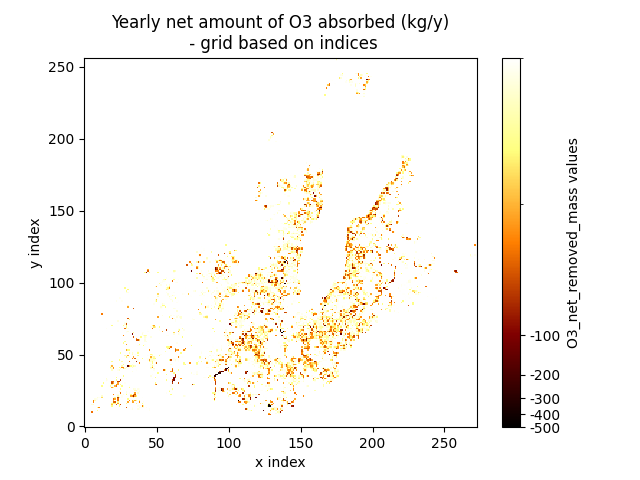
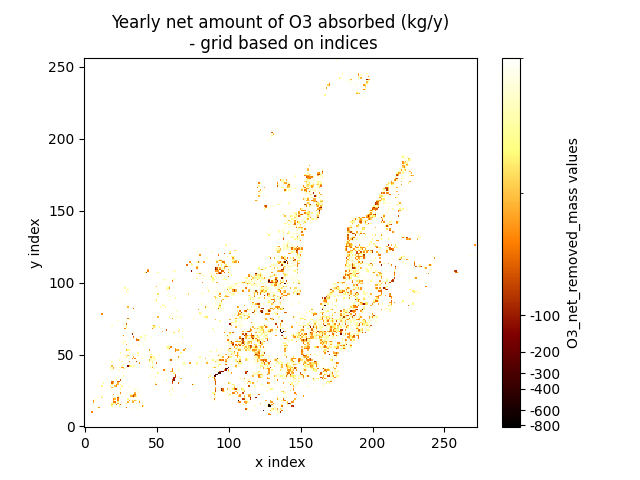
New Graphs for 120000 trees

Changed region(s): [[0.8125, 0.625, 0.875, 0.9062]]

diff --git a/execution_file_windows.py b/execution_file_windows.py
@@ -2,8 +2,6 @@ import numpy as np
 import ctypes
 import os
 import matplotlib.pyplot as plt
-from matplotlib.colors import ListedColormap
-from matplotlib.colors import Normalize
 from matplotlib.colors import SymLogNorm
 import time
 
@@ -219,7 +217,7 @@ summary.write(f"Total amount of ozone absorbed: {O3_tot} kg/y \n")
 summary.write(f"Total net ozone absorbed(+)/emitted(-): {O3_net_uptake_tot} kg/y\n")
 
 # OFP #
-plt.imshow(grid_OFP_np, origin='lower', cmap="YlGnBu", interpolation='nearest', norm = SymLogNorm(linthresh=10, vmin=0, vmax=900))
+plt.imshow(grid_OFP_np, origin='lower', cmap="YlGnBu", interpolation='nearest', norm = SymLogNorm(linthresh=10, vmin=0, vmax=grid_OFP_np.max()))
 plt.title("Yearly Ozone Forming Potential (OFP) (kg/y)\n - grid based on indices")
 plt.xlabel("x-index")
 plt.ylabel("y-index")
@@ -231,7 +229,7 @@ plt.savefig(f'Results/OFP_map_{NR_LINES_GE}_indices.png')
 
 # PM10 # 
 plt.clf()
-plt.imshow(grid_PM10_np, origin='lower', cmap='YlGnBu', interpolation='nearest', norm = SymLogNorm(linthresh=1, vmin=0, vmax=5))
+plt.imshow(grid_PM10_np, origin='lower', cmap='YlGnBu', interpolation='nearest', norm = SymLogNorm(linthresh=1, vmin=0, vmax=grid_PM10_np.max()))
 plt.title("Yearly PM10 Deposition (kg/y)\n - grid based on indices")
 plt.xlabel("x index")
 plt.ylabel("y index")
@@ -242,7 +240,7 @@ plt.savefig(f'Results/PM10_map_{NR_LINES_GE}_indices.png')
 
 #O3_uptake
 plt.clf()
-plt.imshow(grid_O3_np, origin='lower', cmap='YlGnBu', interpolation='nearest', norm = SymLogNorm(linthresh=2, vmin=0, vmax=10))
+plt.imshow(grid_O3_np, origin='lower', cmap='YlGnBu', interpolation='nearest', norm = SymLogNorm(linthresh=2, vmin=0, vmax=grid_O3_np.max()))
 plt.title("Yearly amount of O3 absorbed (kg/y)\n - grid based on indices")
 plt.xlabel("x index")
 plt.ylabel("y index")
@@ -253,12 +251,12 @@ plt.savefig(f'Results/O3_map_{NR_LINES_GE}_indices.png')
 # O3__net_uptake #
 
 plt.clf()
-plt.imshow(grid_O3_net_uptake_np, origin='lower', cmap='afmhot', interpolation= 'nearest',  norm = SymLogNorm(linthresh=10, vmin=-500, vmax=0))
+plt.imshow(grid_O3_net_uptake_np, origin='lower', cmap='afmhot', interpolation= 'nearest',  norm = SymLogNorm(linthresh=10, vmin=grid_O3_net_uptake_np.min(), vmax=0))
 plt.title("Yearly net amount of O3 absorbed (kg/y)\n - grid based on indices")
 plt.xlabel("x index")
 plt.ylabel("y index")
-cbar = plt.colorbar(label = "O3_net_removed_mass values", ticks = [-100, -200, -300, -400, -500, -600, -700, -800])
-cbar.ax.set_yticklabels(['-100', '-200', '-300', '-400', '-500', '-600', '-700', '-800'])
+cbar = plt.colorbar(label = "O3_net_removed_mass values", ticks = [-100, -200, -300, -400, -600, -800])
+cbar.ax.set_yticklabels(['-100', '-200', '-300', '-400', '-600', '-800'])
 plt.savefig(f'Results/O3_net_uptake_map_{NR_LINES_GE}_indices.png')
 
 print("This was the last grid.")

diff --git a/execution_file_mac.py b/execution_file_mac.py
@@ -2,8 +2,6 @@ import numpy as np
 import ctypes
 import os
 import matplotlib.pyplot as plt
-from matplotlib.colors import ListedColormap
-from matplotlib.colors import Normalize
 from matplotlib.colors import SymLogNorm
 import time
 
@@ -219,7 +217,7 @@ summary.write(f"Total amount of ozone absorbed: {O3_tot} kg/y \n")
 summary.write(f"Total net ozone absorbed(+)/emitted(-): {O3_net_uptake_tot} kg/y\n")
 
 # OFP #
-plt.imshow(grid_OFP_np, origin='lower', cmap="YlGnBu", interpolation='nearest', norm = SymLogNorm(linthresh=10, vmin=0, vmax=900))
+plt.imshow(grid_OFP_np, origin='lower', cmap="YlGnBu", interpolation='nearest', norm = SymLogNorm(linthresh=10, vmin=0, vmax=grid_OFP_np.max()))
 plt.title("Yearly Ozone Forming Potential (OFP) (kg/y)\n - grid based on indices")
 plt.xlabel("x-index")
 plt.ylabel("y-index")
@@ -231,7 +229,7 @@ plt.savefig(f'Results/OFP_map_{NR_LINES_GE}_indices.png')
 
 # PM10 # 
 plt.clf()
-plt.imshow(grid_PM10_np, origin='lower', cmap='YlGnBu', interpolation='nearest', norm = SymLogNorm(linthresh=1, vmin=0, vmax=5))
+plt.imshow(grid_PM10_np, origin='lower', cmap='YlGnBu', interpolation='nearest', norm = SymLogNorm(linthresh=1, vmin=0, vmax=grid_PM10_np.max()))
 plt.title("Yearly PM10 Deposition (kg/y)\n - grid based on indices")
 plt.xlabel("x index")
 plt.ylabel("y index")
@@ -242,7 +240,7 @@ plt.savefig(f'Results/PM10_map_{NR_LINES_GE}_indices.png')
 
 #O3_uptake
 plt.clf()
-plt.imshow(grid_O3_np, origin='lower', cmap='YlGnBu', interpolation='nearest', norm = SymLogNorm(linthresh=2, vmin=0, vmax=10))
+plt.imshow(grid_O3_np, origin='lower', cmap='YlGnBu', interpolation='nearest', norm = SymLogNorm(linthresh=2, vmin=0, vmax=grid_O3_np.max()))
 plt.title("Yearly amount of O3 absorbed (kg/y)\n - grid based on indices")
 plt.xlabel("x index")
 plt.ylabel("y index")
@@ -253,7 +251,7 @@ plt.savefig(f'Results/O3_map_{NR_LINES_GE}_indices.png')
 # O3__net_uptake #
 
 plt.clf()
-plt.imshow(grid_O3_net_uptake_np, origin='lower', cmap='afmhot', interpolation= 'nearest',  norm = SymLogNorm(linthresh=10, vmin=-500, vmax=0))
+plt.imshow(grid_O3_net_uptake_np, origin='lower', cmap='afmhot', interpolation= 'nearest',  norm = SymLogNorm(linthresh=10, vmin=grid_O3_net_uptake_np.min(), vmax=0))
 plt.title("Yearly net amount of O3 absorbed (kg/y)\n - grid based on indices")
 plt.xlabel("x index")
 plt.ylabel("y index")

diff --git a/Functions/e_filter_trees.py b/Functions/e_filter_trees.py
@@ -31,7 +31,7 @@ def readfile(file_name):
             elif n == 3:  
                 v = []                                                 # pour EF -> we have three values
                 for i in range(1, 4):
-                    if data[i] == "None" or data[i] == "None\n":       # When we have None -> peut-être à modifier plus tard ??
+                    if data[i] == "None" or data[i] == "None\n":       # When we have None --> setting to 0.0
                         data[i] = 0.0
                     v.append(float(data[i]))
                 names_values_dic[first_name].append(v)
